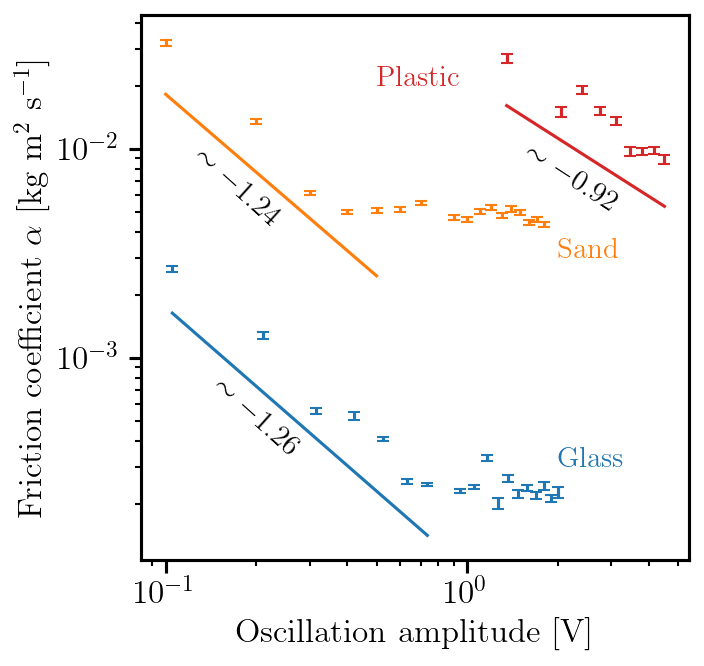
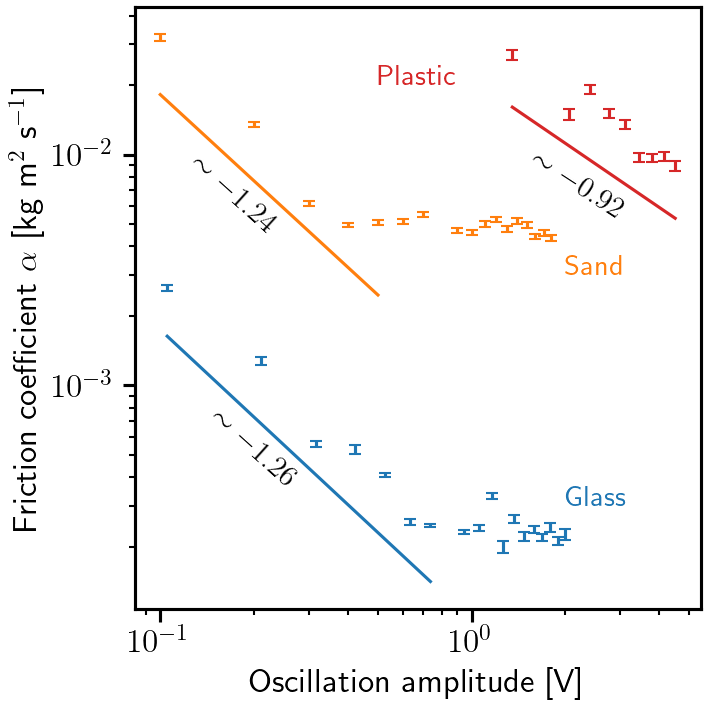
Dimensions et autre stuff

diff --git a/05-milieux-granulaires/analyse/plot_Teff.py b/05-milieux-granulaires/analyse/plot_Teff.py
@@ -1,8 +1,6 @@
 import numpy as np
-# import scipy as sc
 import matplotlib as mpl
 import matplotlib.pyplot as plt
-# import matplotlib.mlab as mlab
 from matplotlib.ticker import ScalarFormatter
 from mpl_toolkits.axes_grid1.inset_locator import inset_axes
 
@@ -18,12 +16,12 @@ std_devs = unp.std_devs
 
 mpl.rcParams.update(rcParams)
 
-# mpl.rcParams['savefig.bbox'] = 'standard'
-mpl.rcParams["figure.figsize"] = (36*INCH_PER_CM, 12*INCH_PER_CM)
-# mpl.rcParams["figure.subplot.left"]   = 0.21
-# mpl.rcParams['figure.subplot.right']  = 0.75
-# mpl.rcParams['figure.subplot.top']    = 0.97
-# mpl.rcParams['figure.subplot.bottom'] = 0.2
+mpl.rcParams['savefig.bbox'] = 'standard'
+mpl.rcParams["figure.figsize"] = (24*INCH_PER_CM, 10*INCH_PER_CM)
+mpl.rcParams["figure.subplot.left"]   = 0.085
+mpl.rcParams['figure.subplot.right']  = 1.05
+mpl.rcParams['figure.subplot.top']    = 0.97
+mpl.rcParams['figure.subplot.bottom'] = 0.15
 
 # ===== Params =====
 datasets= ['250321-exp7', '250404-sand2', '250404-plastic6']
@@ -31,16 +29,15 @@ material_text_size = 22
 
 # ===== Subplots =====
 fig, axs = plt.subplots(1,3, 
-                       layout='constrained', 
+                    #    layout='constrained', 
                        sharey='row',
                     #    gridspec_kw={'wspace': 0.1, 'hspace': 0.005}
                        )
+plt.subplots_adjust(wspace=0.06)
 # == padding ==
-fig.get_layout_engine().set(w_pad=8 / 72, h_pad=4 / 72, 
-                            hspace=0.0, wspace=0.0
-                            )
-
-
+# fig.get_layout_engine().set(w_pad=5 / 72, h_pad=4 / 72, 
+#                             hspace=0.0, wspace=0.0
+#                             )
 # ===== Data analysis and plot =====
 for i, dataset in enumerate(datasets):
     data = load(dataset)
@@ -85,33 +82,37 @@ for i, dataset in enumerate(datasets):
     # )
 
 # ===== Annotations =====
+material_text_position = (0.06, 0.91)
+material_text_padding=0.18
 axs[0].text(
-            0.05,0.92, "Glass",
+            material_text_position[0],material_text_position[1], "Glass",
             size=material_text_size,
             horizontalalignment='left',
             verticalalignment='center',
             transform = axs[0].transAxes,
-            bbox=dict(facecolor='none', edgecolor='black', boxstyle='round,pad=0.3')
+            bbox=dict(facecolor='none', edgecolor='black', boxstyle=f'round,pad={material_text_padding}')
             )
 axs[1].text(
-            0.05,0.92, "Sand",
+            material_text_position[0],material_text_position[1], "Sand",
             size=material_text_size,
             horizontalalignment='left',
             verticalalignment='center',
             transform = axs[1].transAxes,
-            bbox=dict(facecolor='none', edgecolor='black', boxstyle='round,pad=0.3')
+            bbox=dict(facecolor='none', edgecolor='black', boxstyle=f'round,pad={material_text_padding}')
             )
 axs[2].text(
-            0.05,0.92, "Plastic",
+            material_text_position[0],material_text_position[1], "Plastic",
             size=material_text_size,
             horizontalalignment='left',
             verticalalignment='center',
             transform = axs[2].transAxes,
-            bbox=dict(facecolor='none', edgecolor='black', boxstyle='round,pad=0.3')
+            bbox=dict(facecolor='none', edgecolor='black', boxstyle=f'round,pad={material_text_padding}')
             )
 
 
-clb = fig.colorbar(plt.cm.ScalarMappable(norm, cmap), ax=axs, label="Vibration amplitude [V]")
+clb = fig.colorbar(plt.cm.ScalarMappable(norm, cmap), ax=axs, 
+                   label="Vibration amplitude [V]",
+                   pad=0.01)
 # clb.ax.set_xticks(ticks = [round(min_amplitude), round(max_amplitude)], minor=False)
 # clb.ax.set_title("Vibration amplitude [V]", loc='left')
 

diff --git a/05-milieux-granulaires/analyse/plot_alpha.py b/05-milieux-granulaires/analyse/plot_alpha.py
@@ -16,12 +16,12 @@ std_devs = unp.std_devs
 
 mpl.rcParams.update(rcParams)
 
-# mpl.rcParams['savefig.bbox'] = 'standard'
+mpl.rcParams['savefig.bbox'] = 'standard'
 mpl.rcParams["figure.figsize"] = (12*INCH_PER_CM, 12*INCH_PER_CM)
-# mpl.rcParams["figure.subplot.left"]   = 0.21
-# mpl.rcParams['figure.subplot.right']  = 0.75
-# mpl.rcParams['figure.subplot.top']    = 0.97
-# mpl.rcParams['figure.subplot.bottom'] = 0.2
+mpl.rcParams["figure.subplot.left"]   = 0.19
+mpl.rcParams['figure.subplot.right']  = 0.99
+mpl.rcParams['figure.subplot.top']    = 0.99
+mpl.rcParams['figure.subplot.bottom'] = 0.14
 
 
 # ===== params =====
@@ -125,4 +125,4 @@ plt.ylabel(r'Friction coefficient $\alpha$ [kg m$^2$ s$^{-1}$]')
 
 # ax.legend(bbox_to_anchor=(0.5,0.5))
 
-plt.savefig('../figures/alpha_together.png', bbox_inches='tight')
+plt.savefig('../figures/alpha_together.png')

diff --git a/05-milieux-granulaires/analyse/options.py b/05-milieux-granulaires/analyse/options.py
@@ -3,7 +3,7 @@ from constants import *
 rcParams = {
     # Text appearance
     "text.usetex": True,
-    "font.family": "serif",
+    # "font.family": "serif",
     "text.latex.preamble": "\n".join([
         r"\usepackage[utf8]{inputenc}",
         r"\setlength{\parindent}{0pt}",
